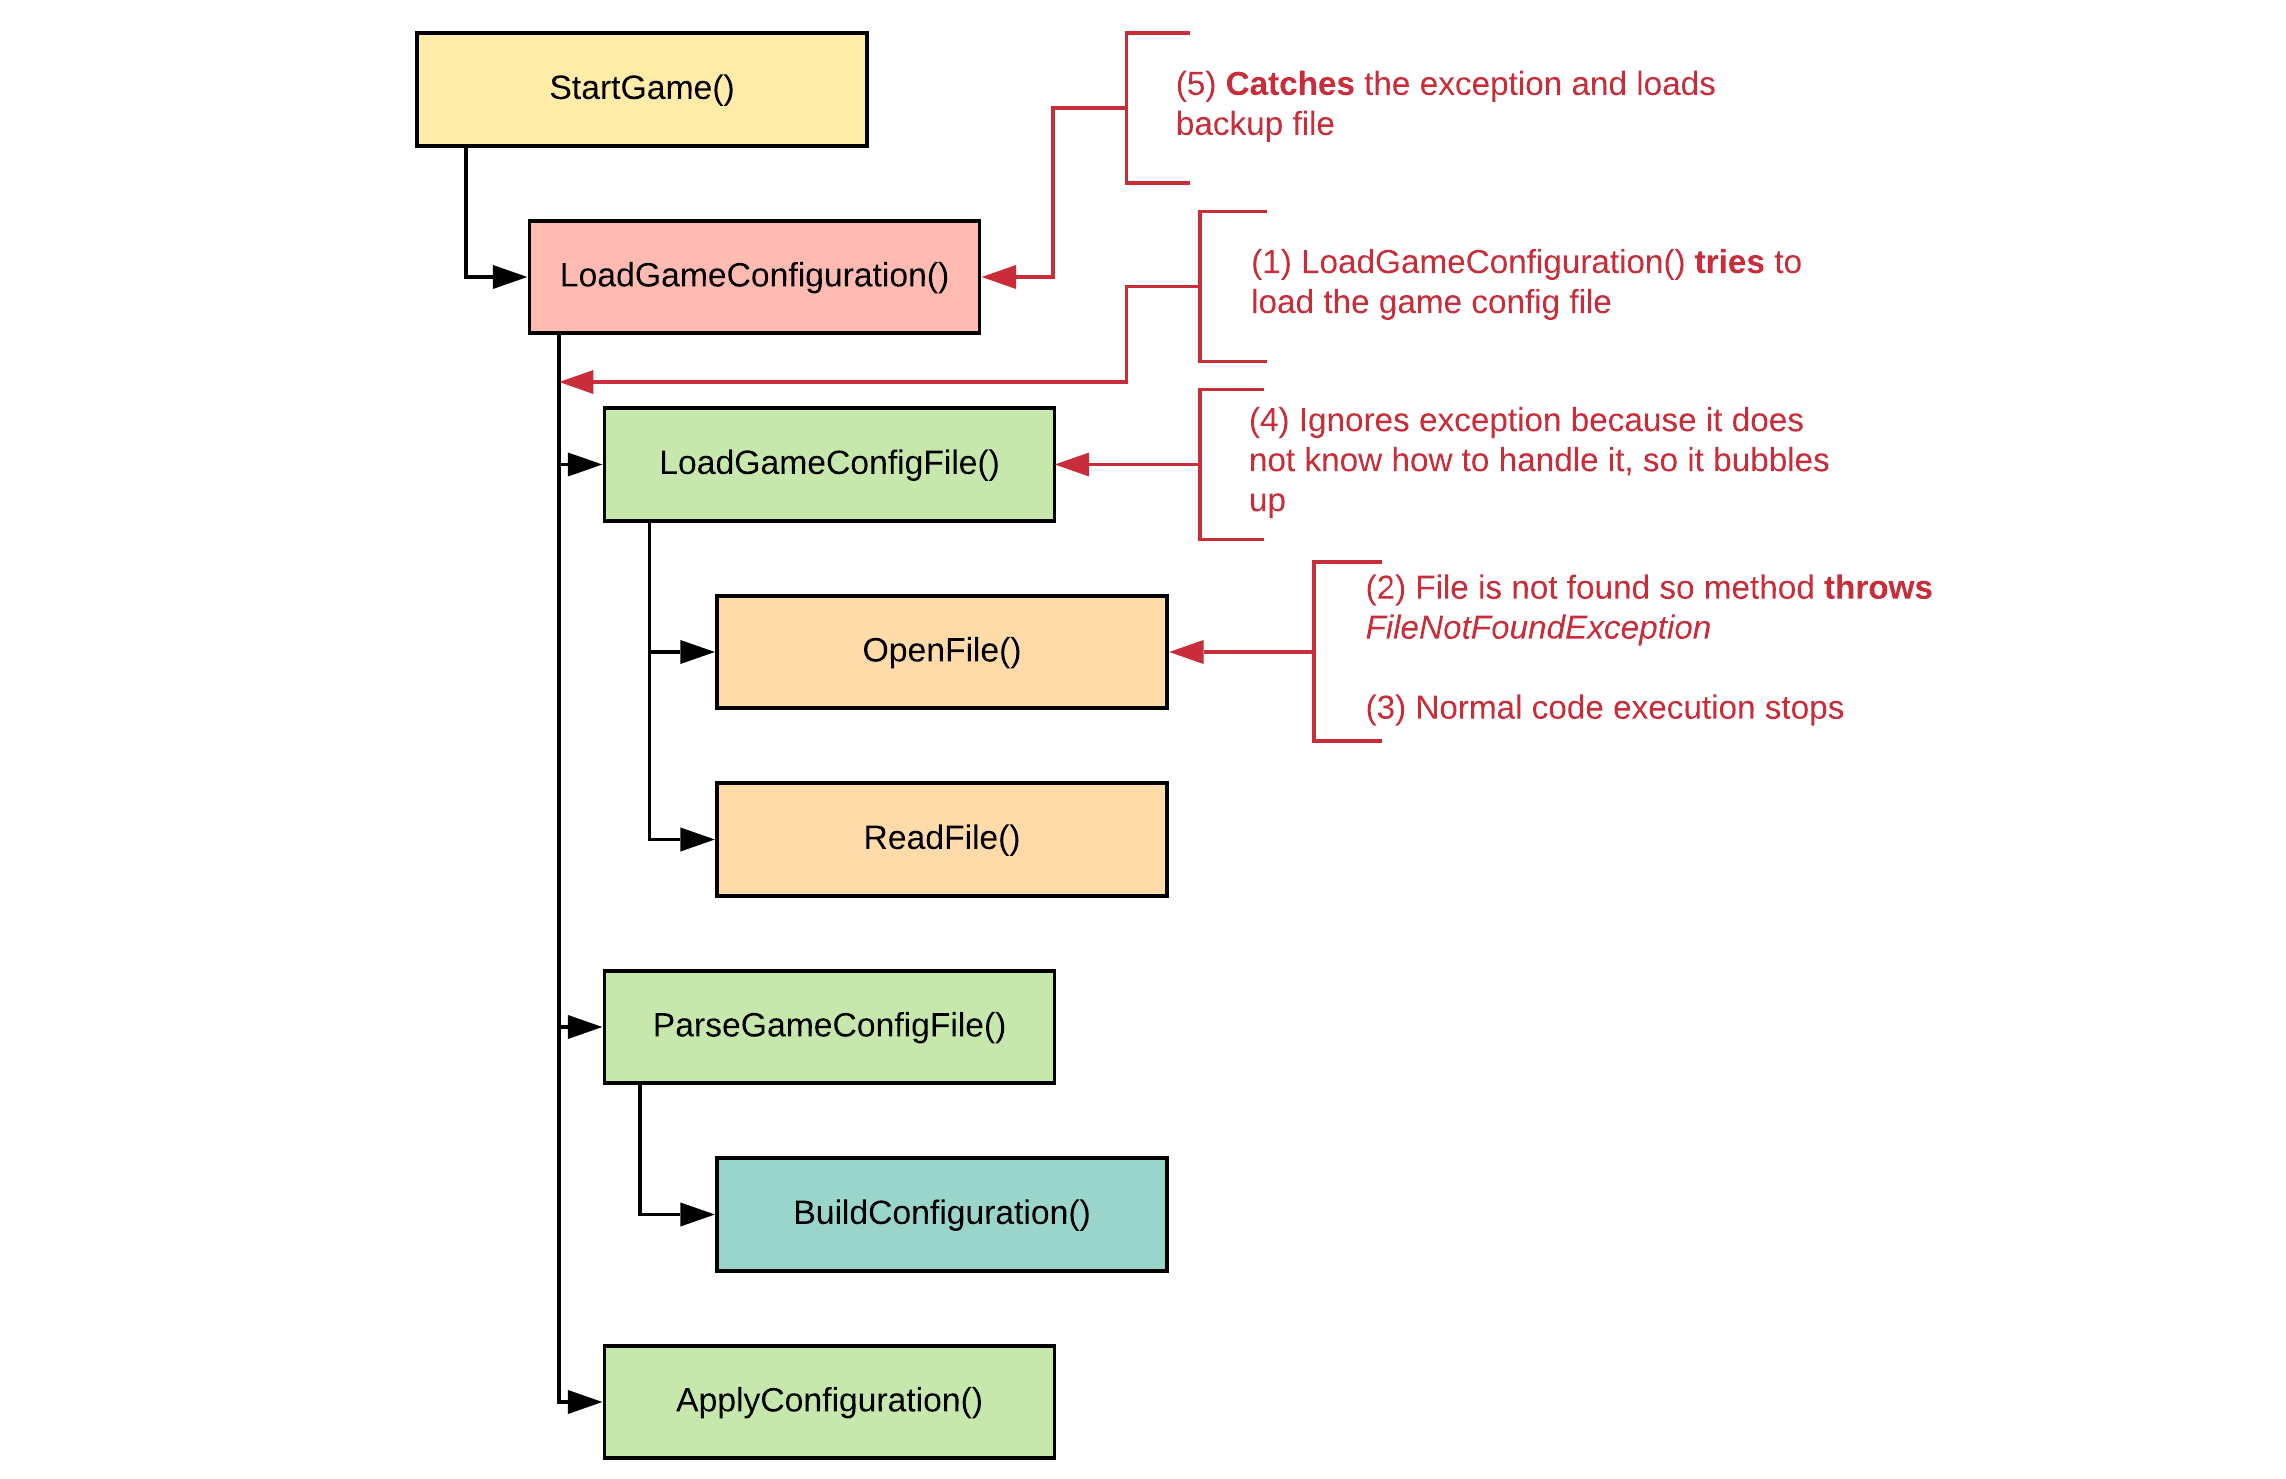
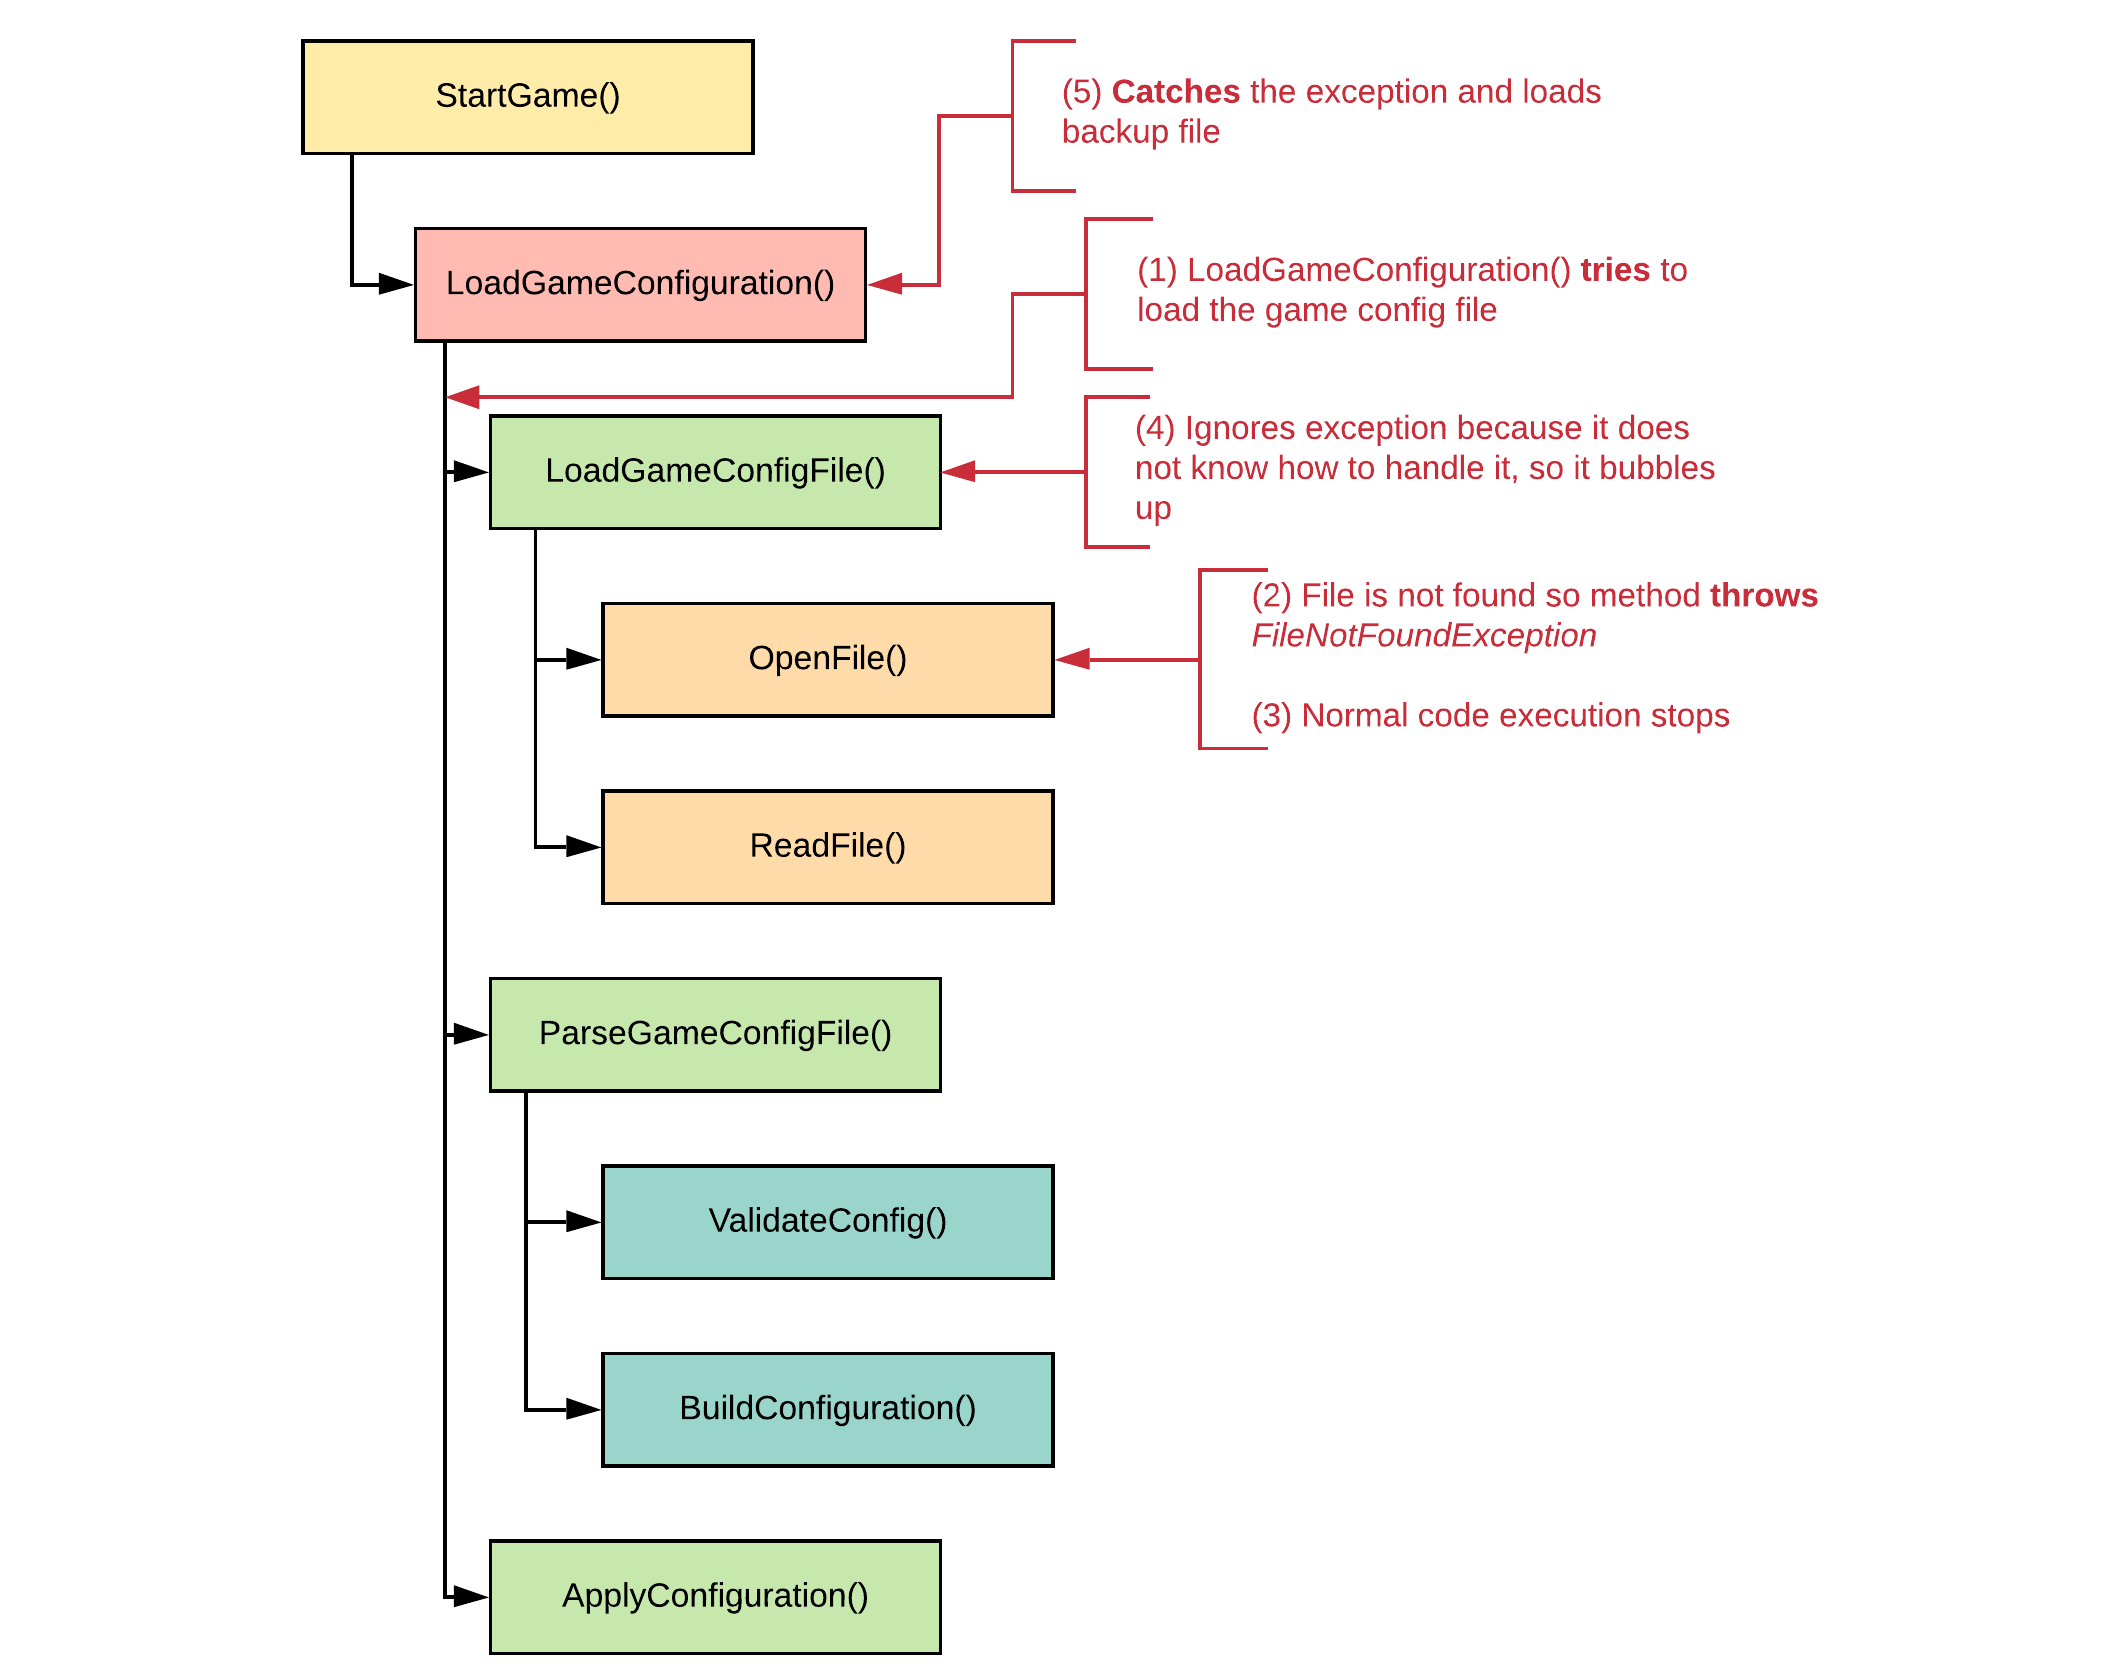
Add second example of exceptions

Changed region(s): [[0.1245, 0.0, 0.8713, 0.9953], [0.5912, 0.4665, 0.8091, 0.4976]]

diff --git a/docs/30-exceptions/README.md b/docs/30-exceptions/README.md
@@ -166,11 +166,11 @@ And this is a shame since we could argue that software development is all about 
 
 Exceptions provide **a way to transfer control from one part of a program to another**. C# exception handling is built upon four keywords: `try`, `catch`, `finally`, and `throw`.
 
-Let us a closer look at a fictional example of a game that is started and needs to load a configuration file from the local filesystem. Methods/functions that are nested in other functions are indented towards the right.
+Let us take a closer look at a fictional example of a game that is started and needs to load a configuration file from the local filesystem. Methods that are nested in other methods are indented towards the right.
 
 ![Load Game Config](./img/read-game-config.png)
 
-What would happen if the `OpenFile()` method fails because the configuration file could not be found on the local filesystem?
+What might happen if the `OpenFile()` method fails because the configuration file could not be found on the local filesystem?
 
 1. The method `LoadGameConfiguration()` **tries** to load the game config file by called the method `LoadGameConfigFile().
 2. However the file could not be opened and the method `OpenFile()` indicates this by **throwing** an exception object of type `FileNotFoundException` (real C# exception class). If something goes wrong in the code, it can warn the higher methods by *throwing* a special object of an exception class.
@@ -180,3 +180,23 @@ What would happen if the `OpenFile()` method fails because the configuration fil
 6. All goes well and the rest of the application executes.
 
 ![Open File Fails](./img/open-file-fails.png)
+
+Now what might happen if the configuration file is loaded and read successfully, but the actual content is not a valid configuration?
+
+1. The configuration file has been loaded from the filesystem and the `ParseGameConfigFile()` is called from the method `LoadGameConfiguration()`. It validates the configuration file using the `ValidateConfig()` method and notices the file misses content and will be parsable.
+2. The method `ParseGameConfigFile()` **throws** an exception of type `InvalidGameConfigException` (not a standard C# exception, this is a custom class) and thereby interrupts the normal flow of execution. It throws an exception because this method cannot solve the issue at this level. That is the responsibility of the `LoadGameConfiguration()` method.
+3. The exception bubbles up towards the `LoadGameConfiguration()` method which **catches** exceptions of type `InvalidGameConfigException` because it knows how to solve it. There are two options depending on the current situation:
+  a. If the current file is the user config file, then the whole process needs to tried again but with the backup configuration file
+  b. If the current file the backup configuration file, then the game will use a default config defined in code
+
+![Parse Config Fails](./img/parse-game-config.png)
+
+Note that a method can catch different types of exceptions. In this example the method `LoadGameConfiguration()` can both catch `FileNotFoundException` exceptions as well as `InvalidGameConfigException`.
+
+The next sections will demonstrate how to do this all.
+
+## Common Mistakes
+
+### Solving Everything with Exceptions
+
+### Logging Everything - Solving Nothing
